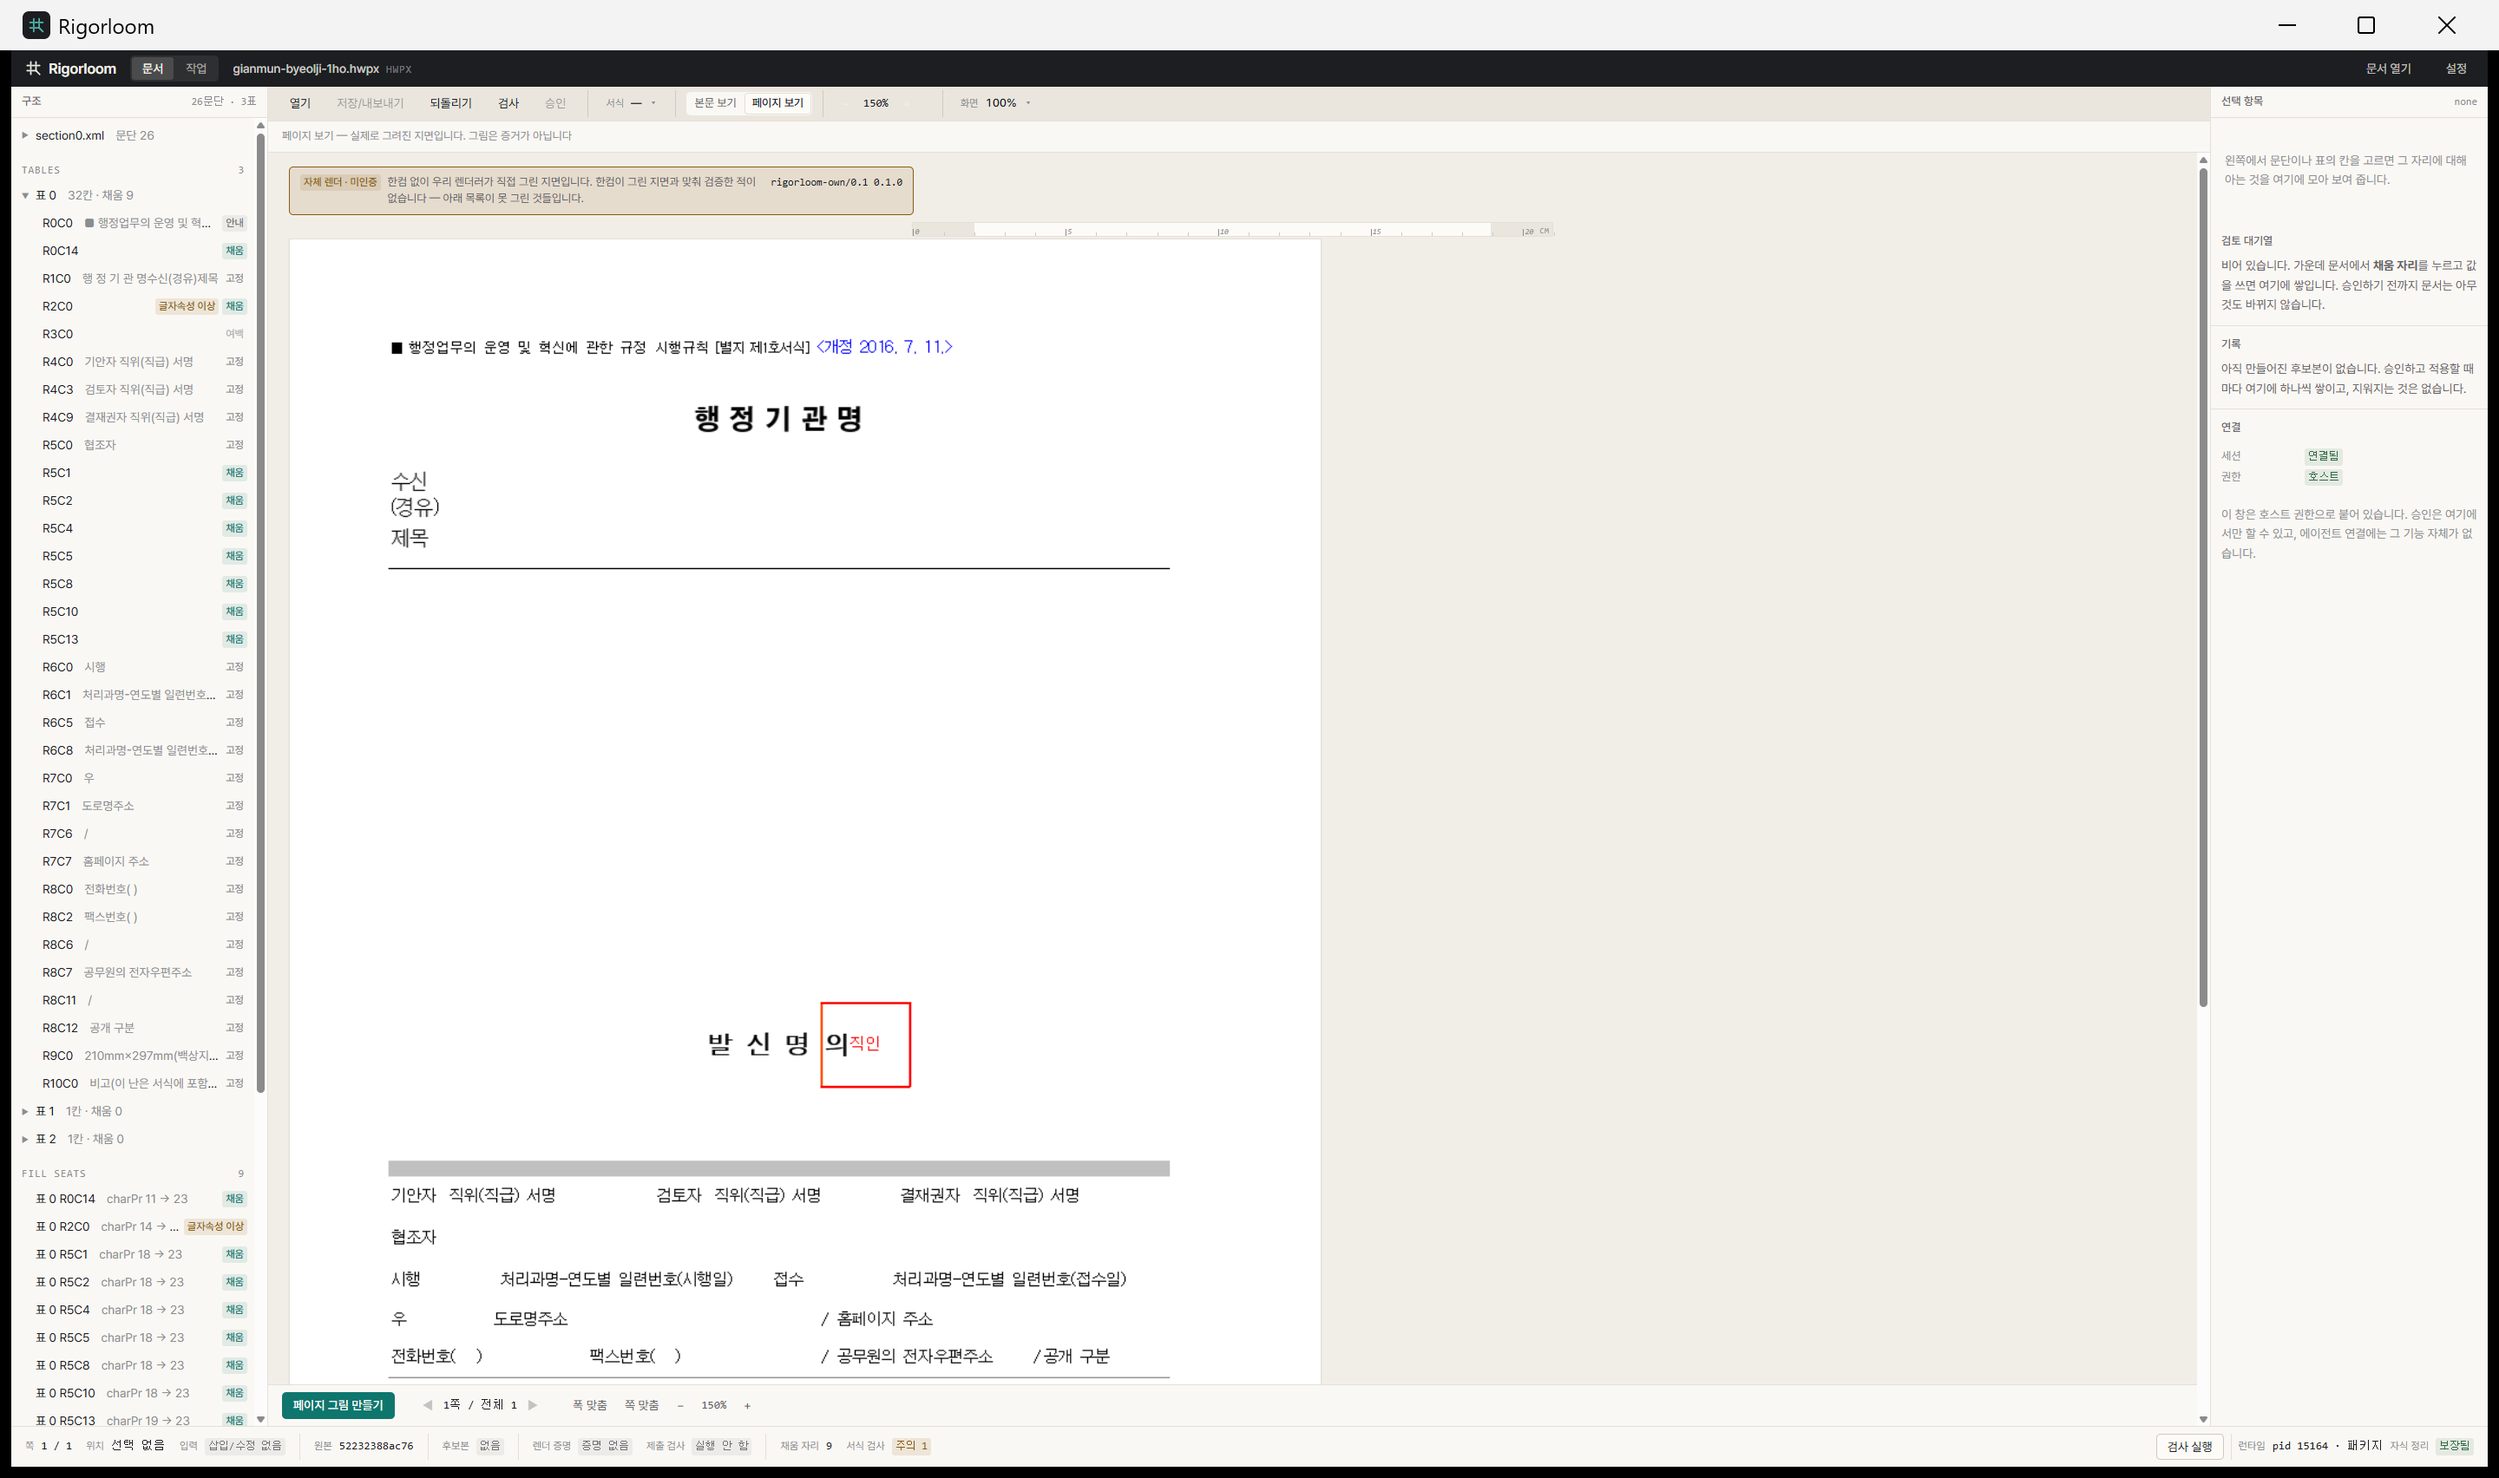
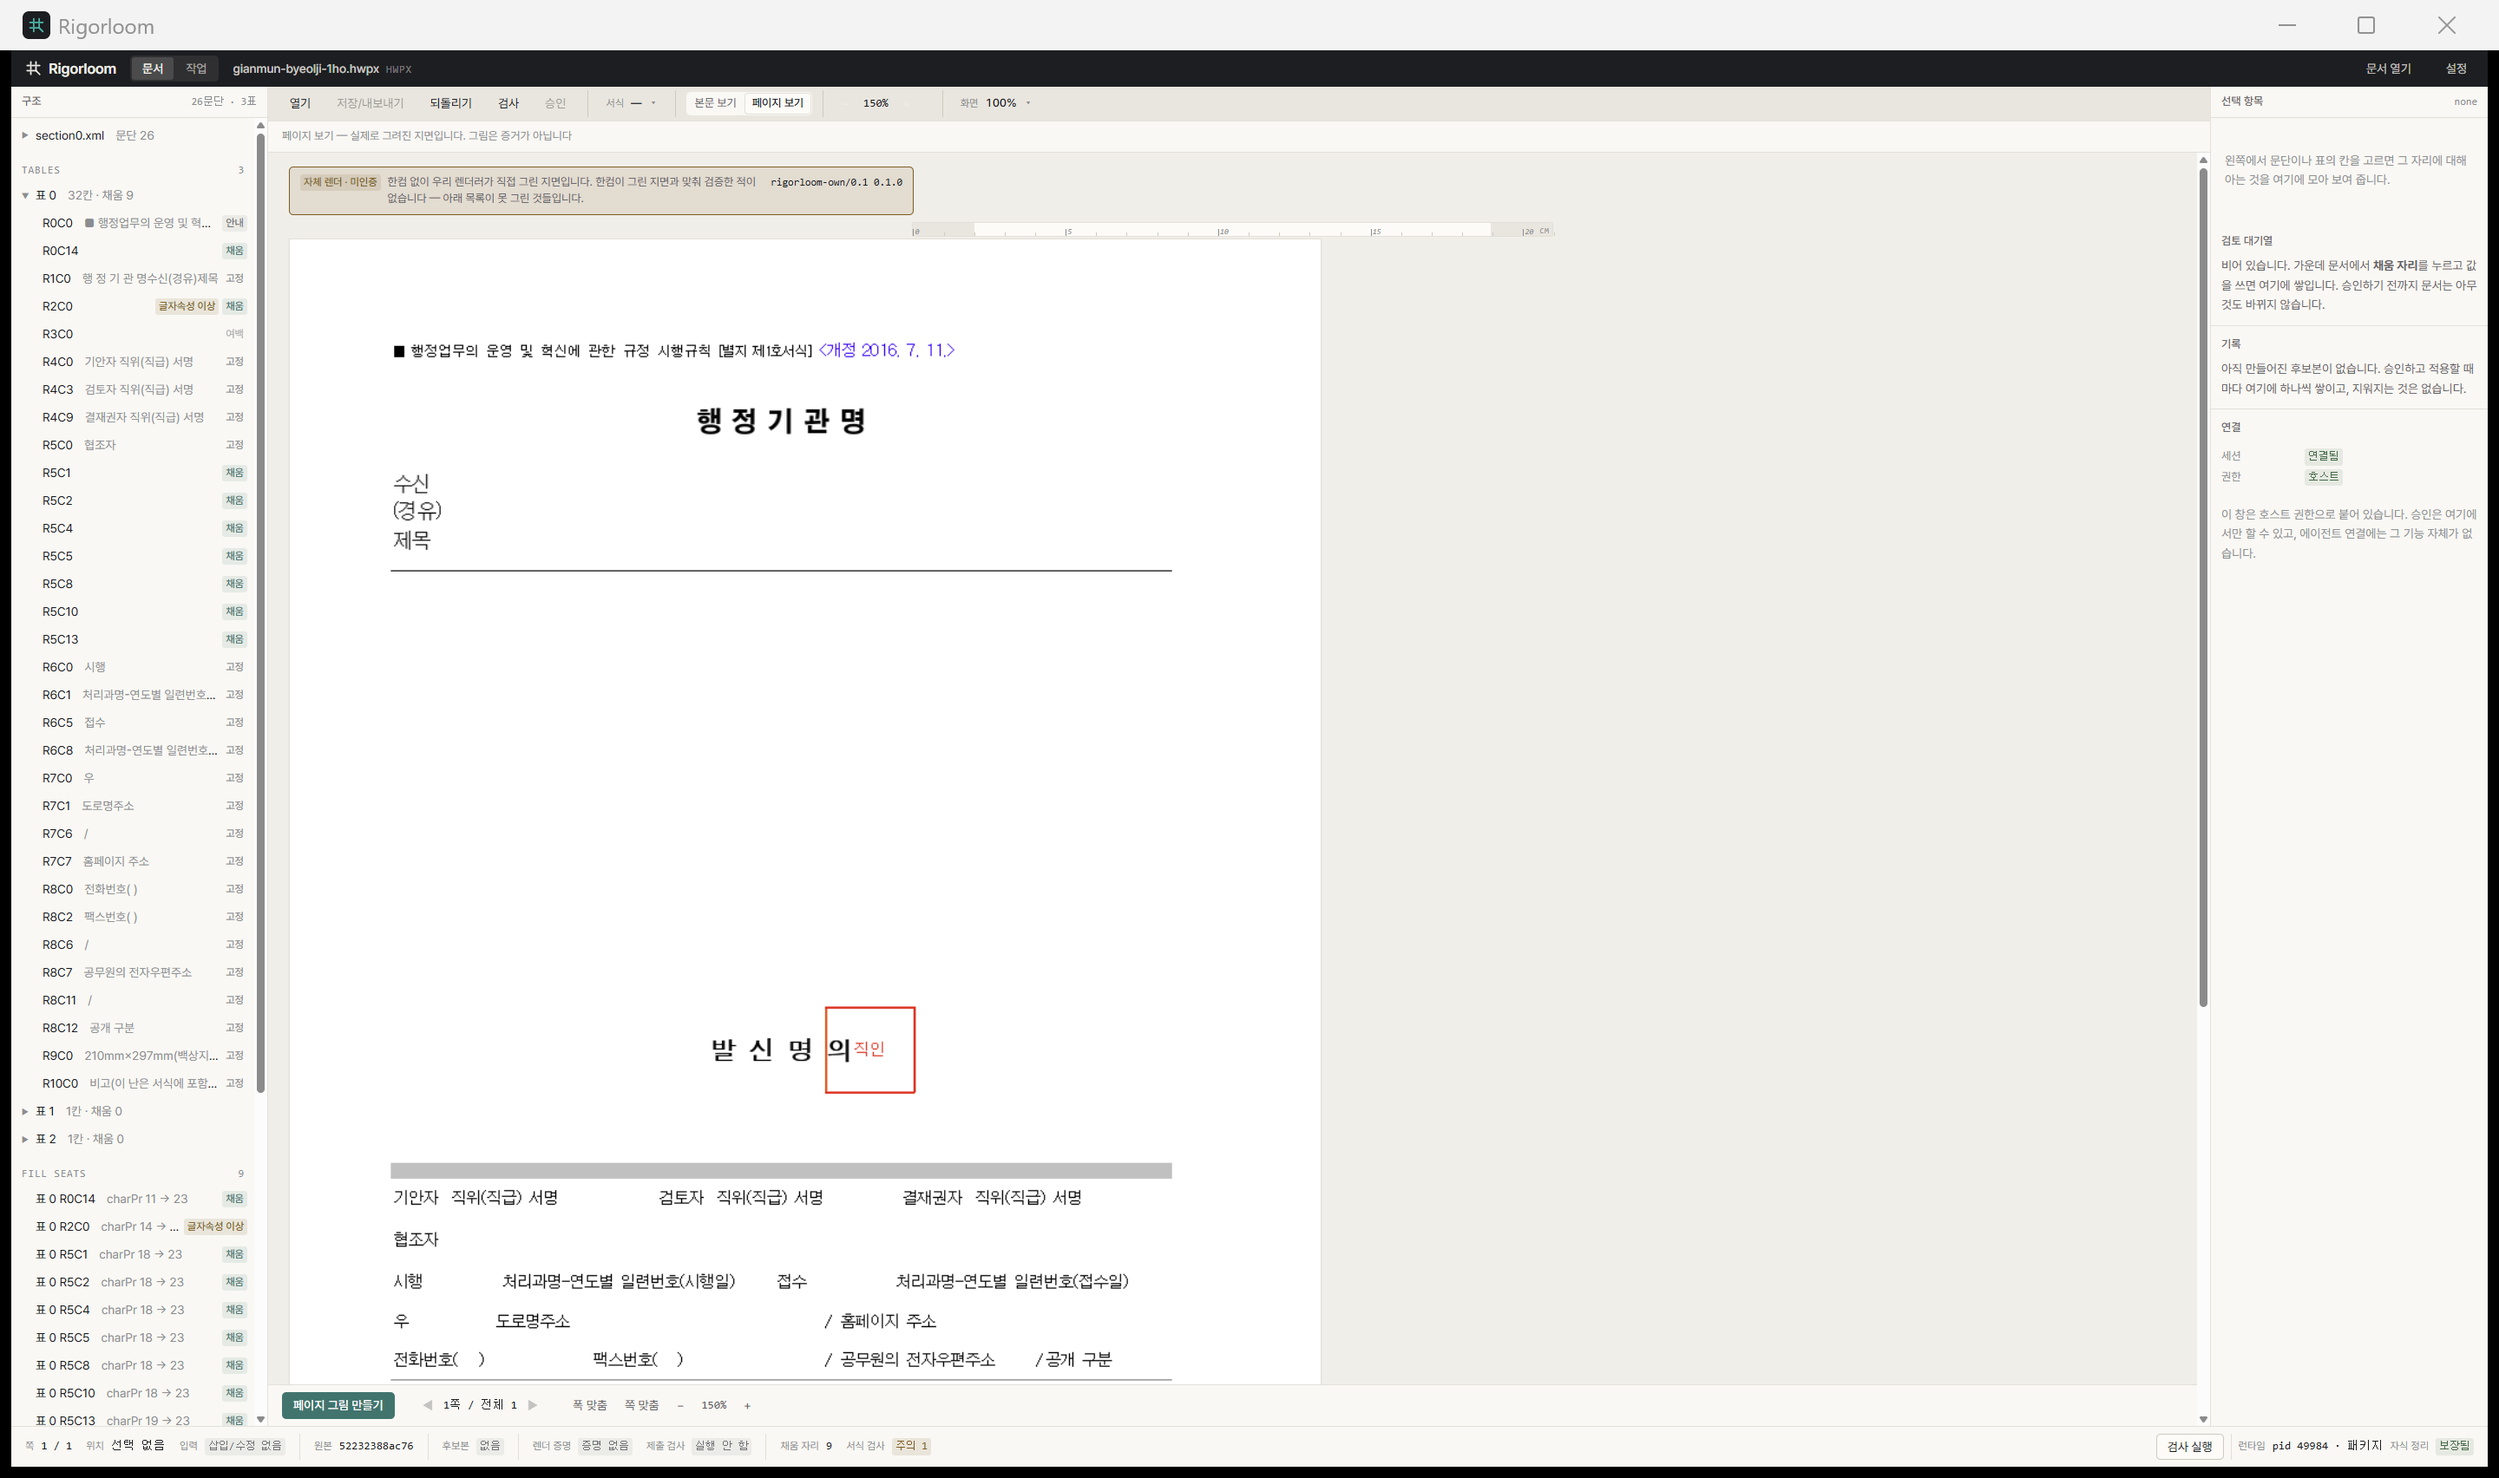
desktop(docs): renderer at #215, tracker-02 numbers, refreshed tier-3 screenshots
Regenerates page-own-render.png, page-own-render-150pct.png and toolbar.png
against the converged renderer + bundled-fonts sidecar (full smoke.ps1 run:
499 passed, 0 failed across 14 phases, own 40 / own-reattach 3, unchanged
from the pre-convergence numbers). page-own-render.png changed pixel-for-
pixel from the prior capture (the placeholder box around the seal glyph
shifts by a few px against different font metrics), consistent with
BundledFontMap now actually answering for a declared face.

Adds one README paragraph naming the merged renderer tip (#215) and citing
the private holdout's tracker-02 numbers (docs/research/holdout-scoreboard-02.md)
as the honest fidelity read this build has -- better than tracker 01 on every
channel, still far from certified, and silent on the fonts this slice
bundled (that holdout's own faces were all installed on the scoring machine,
so BundledFontMap was never exercised there). None of this reaches the UI:
the badge stays 자체 렌더 . 미인증 and own-uncertified remains the only
grade a fresh install can earn.

Claude-Session: https://claude.ai/code/session_018vMb825boFbJ811WVqBuS4

diff --git a/desktop/README.md b/desktop/README.md
@@ -1179,6 +1179,23 @@ document tool that glows looks like a marketing page.
 Screenshots: `page-own-render.png` (the badge, the open 무엇을 못 그렸나 list),
 `page-own-render-150pct.png`, `toolbar.png`.
 
+**Renderer at #215.** The sidecar in this build carries
+`claude/engine-e2-converge` merged to its tip (#215) — table/box registration,
+the bundled OFL faces (now actually shipped as PyInstaller data; see the new
+`admrul` role check in `build.ps1` above), and the inline-table page-break
+rule. The only third-party fidelity read on that tree is the private holdout,
+tracker 02 (`docs/research/holdout-scoreboard-02.md`, aggregate numbers only,
+document withheld): 18/18 pages exact, `ssim_inked_mean` 0.1295 → 0.1731,
+`text_line_iou_mean` 0.5389 → 0.5847, `ssim_inked_min` crossing zero
+(−0.0405 → +0.0273 — no page's ink is anti-correlated with Hancom's any
+more). That is better and still not close to fidelity in absolute terms, and
+it says nothing about the fonts this slice bundled: the holdout's own faces
+were all installed on the machine that scored it (`bundled_character_share`
+0.0), so `BundledFontMap` was never consulted and no fidelity number exists
+yet for a document that actually falls through to it. None of this reaches
+the UI — the badge still reads 자체 렌더 · 미인증, and `own-uncertified`
+stays the only grade a fresh install can earn.
+
 **Three defects the evidence found, all in the packaging and all invisible to
 the checks that existed before it.**
 
